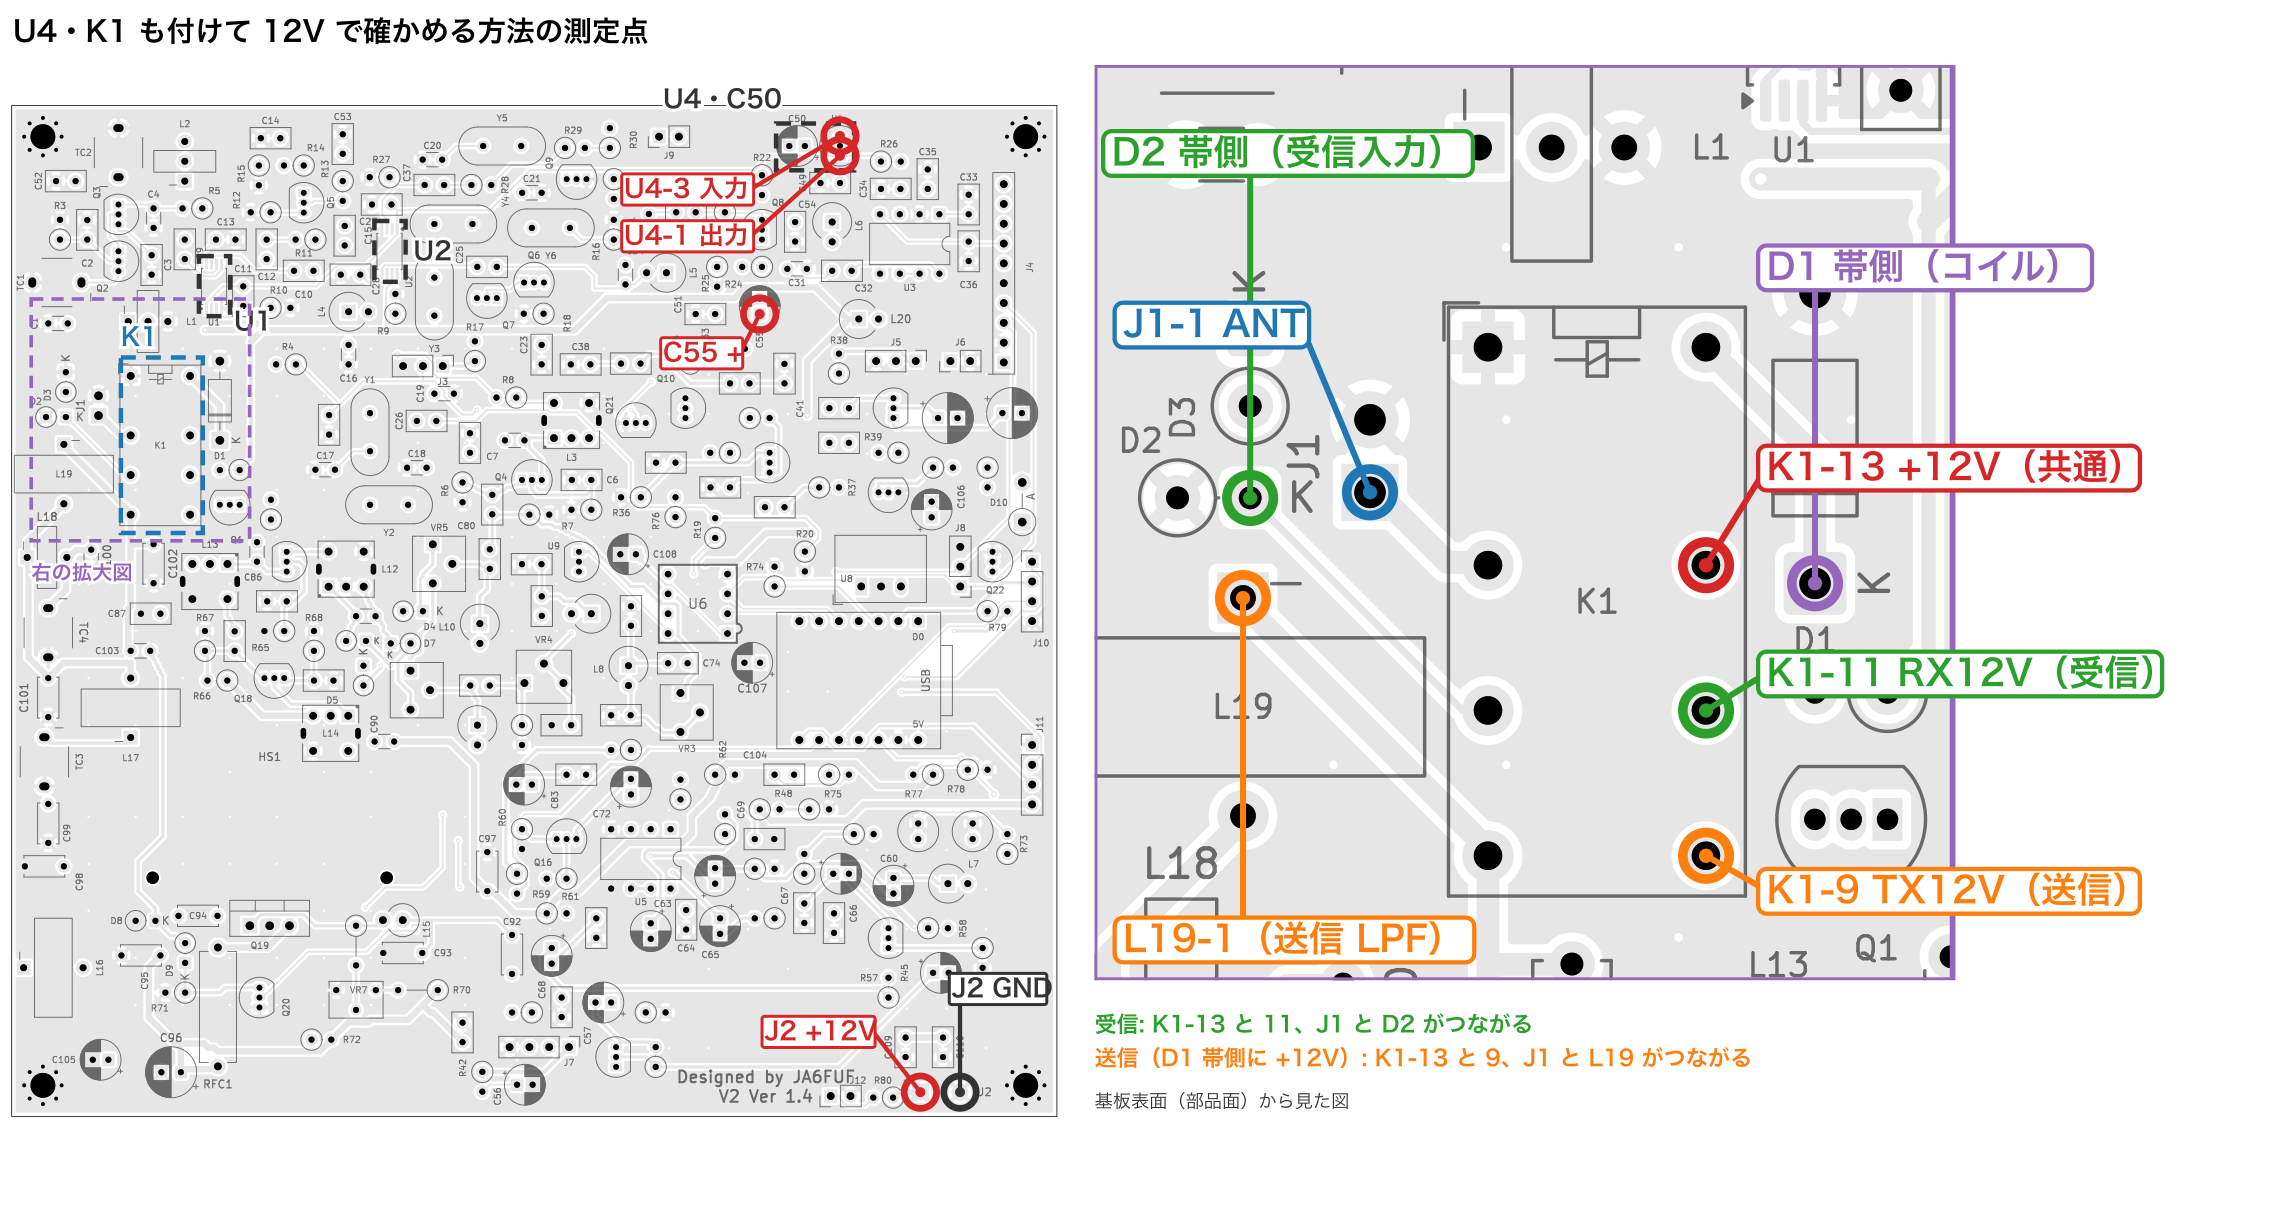
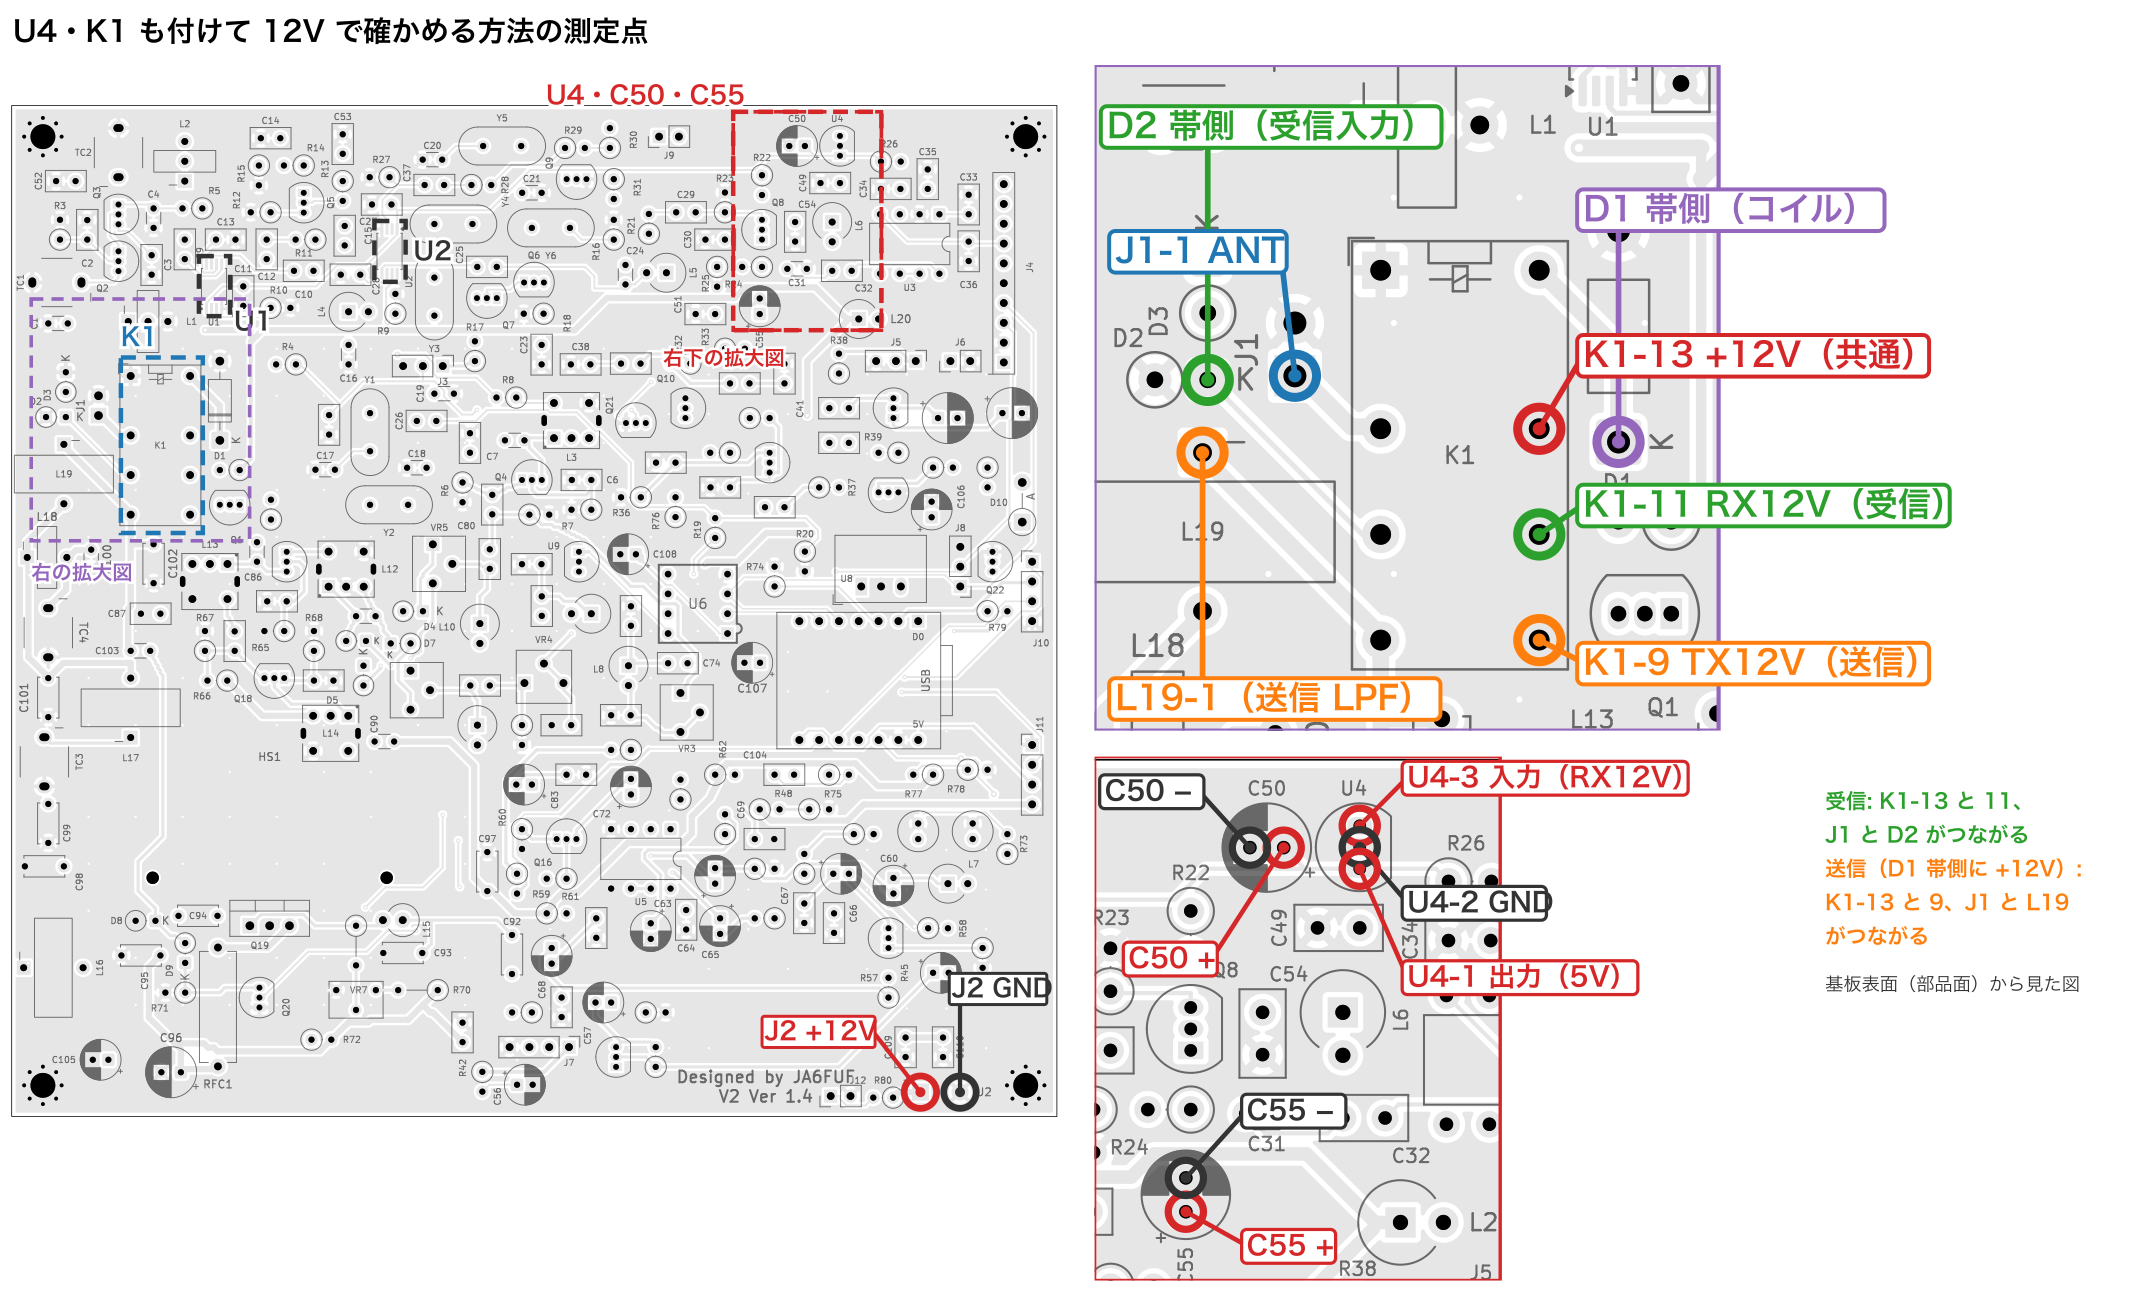
manual: 12V で確かめる方法の図に U4・C50・C55 の拡大図を追加 [skip ci]
C50・C55 の＋−と U4 の 1〜3 番に印を付けた（全体図では印が重なるので範囲の枠だけに）

diff --git a/docs/tools/make_njm2594_12v_points.py b/docs/tools/make_njm2594_12v_points.py
@@ -56,14 +56,11 @@ ov = (80, 20, 137, 137)
 ov_marks = [
     (RED, 198.0, 151.69, 'J2 +12V', 178, 145),
     (BLK, 203.08, 151.69, 'J2 GND', 202, 139.5),
-    (RED, 187.69, 29.09, 'U4-3 入力', 160, 37),
-    (RED, 187.69, 31.64, 'U4-1 出力', 160, 43),
-    (RED, 177.4, 51.93, 'C55 +', 165, 58),
 ]
 ov_body = (box(95.5, 57.5, 106, 80, 'K1', BLU, 3.2, 95.5, 56) +
            box(105.5, 44.5, 109.5, 52.2, 'U1', BLK, 3.2, 110, 54) +
            box(128, 40, 132, 47.8, 'U2', BLK, 3.2, 133, 45) +
-           box(179.5, 27.5, 189.5, 33.5, 'U4・C50', BLK, 3.2, 165, 25.5) +
+           box(174, 26, 193, 54, 'U4・C50・C55', RED, 3.2, 150, 25) + box(174, 26, 193, 54, '右下の拡大図', RED, 2.6, 165, 58.5) +
            box(84, 50, 112, 81, '右の拡大図', PUR, 2.6, 84, 86) +
            marks(ov_marks, 3.2))
 
@@ -78,18 +75,36 @@ k_marks = [
     (ORG, 88.19, 68.64, 'L19-1（送信 LPF）', 84, 81),
     (PUR, 108.19, 68.12, 'D1 帯側（コイル）', 106.5, 57.5),
 ]
-kz_body = marks(k_marks, 1.25)
+kz_body = marks(k_marks, 1.6)
 
-SC1, SC2 = 6.0, 22.0
+uz = (172, 25, 24, 31)
+SC3 = 13.0
+u_marks = [
+    (RED, 187.69, 29.09, 'U4-3 入力（RX12V）', 190.5, 26.8),
+    (BLK, 187.69, 30.36, 'U4-2 GND', 190.5, 34.2),
+    (RED, 187.69, 31.64, 'U4-1 出力（5V）', 190.5, 38.6),
+    (RED, 183.19, 30.39, 'C50 +', 174, 37.5),
+    (BLK, 181.19, 30.39, 'C50 −', 172.6, 27.6),
+    (RED, 177.4, 51.93, 'C55 +', 181, 54.5),
+    (BLK, 177.4, 49.93, 'C55 −', 181, 46.5),
+]
+uz_body = marks(u_marks, 1.6)
+
+SC1, SC2 = 6.0, 16.0
 W1, H1 = ov[2] * SC1, ov[3] * SC1
 W2, H2 = kz[2] * SC2 + 260, kz[3] * SC2
+UW, UH = uz[2] * SC3 + 230, uz[3] * SC3
 FONT = 'font-family="Hiragino Sans, Hiragino Kaku Gothic ProN, sans-serif"'
-W, H = W1 + 20 + W2, max(H1, H2) + 50
+W, H = W1 + 20 + max(W2, UW + 260), max(H1, H2 + 20 + UH) + 10
 legend = [
-    (GRN, '受信: K1-13 と 11、J1 と D2 がつながる'),
-    (ORG, '送信（D1 帯側に +12V）: K1-13 と 9、J1 と L19 がつながる'),
+    (GRN, '受信: K1-13 と 11、'),
+    (GRN, '　J1 と D2 がつながる'),
+    (ORG, '送信（D1 帯側に +12V）:'),
+    (ORG, '　K1-13 と 9、J1 と L19'),
+    (ORG, '　がつながる'),
 ]
-lg = ''.join(f'<text x="{W1+20}" y="{H2+80+k*26}" font-size="17" font-weight="bold" fill="{c}">{t}</text>'
+LX, LY = W1 + 20 + UW + 20, 40 + H2 + 60
+lg = ''.join(f'<text x="{LX}" y="{LY+k*26}" font-size="16" font-weight="bold" fill="{c}">{t}</text>'
              for k, (c, t) in enumerate(legend))
 out = f'''<svg xmlns="http://www.w3.org/2000/svg" width="{W}" height="{H+60}" viewBox="0 -10 {W} {H+60}" {FONT}>
 <rect x="0" y="-10" width="{W}" height="{H+60}" fill="#fff"/>
@@ -102,8 +117,13 @@ out = f'''<svg xmlns="http://www.w3.org/2000/svg" width="{W}" height="{H+60}" vi
 <rect x="{kz[0]}" y="{kz[1]}" width="{kz[2]}" height="{kz[3]}" fill="none" stroke="{PUR}" stroke-width="0.2"/>
 {kz_body}</svg>
 {lg}
-<text x="{W1+20}" y="{H2+80+2*26+6}" font-size="14" fill="#333">基板表面（部品面）から見た図</text>
+<text x="{LX}" y="{LY+5*26+10}" font-size="14" fill="#333">基板表面（部品面）から見た図</text>
+<svg x="{W1+20}" y="{40+H2+20}" width="{UW}" height="{UH}" viewBox="{uz[0]} {uz[1]} {uz[2]+230/SC3} {uz[3]}">
+<rect x="{uz[0]}" y="{uz[1]}" width="{uz[2]+230/SC3}" height="{uz[3]}" fill="#fff"/>
+<svg x="{uz[0]}" y="{uz[1]}" width="{uz[2]}" height="{uz[3]}" viewBox="{uz[0]} {uz[1]} {uz[2]} {uz[3]}">{LAYERS}</svg>
+<rect x="{uz[0]}" y="{uz[1]}" width="{uz[2]}" height="{uz[3]}" fill="none" stroke="{RED}" stroke-width="0.2"/>
+{uz_body}</svg>
 </svg>'''
 open(f'{S}/points12.svg', 'w').write(out)
 subprocess.run(['rsvg-convert', '-z', '1.3', f'{S}/points12.svg', '-o',
-                os.path.join(ROOT, 'manual', 'images', 'njm2594-test-12v-points.png')], check=True)
+                os.environ.get('OUT', os.path.join(ROOT, 'manual', 'images', 'njm2594-test-12v-points.png'))], check=True)
